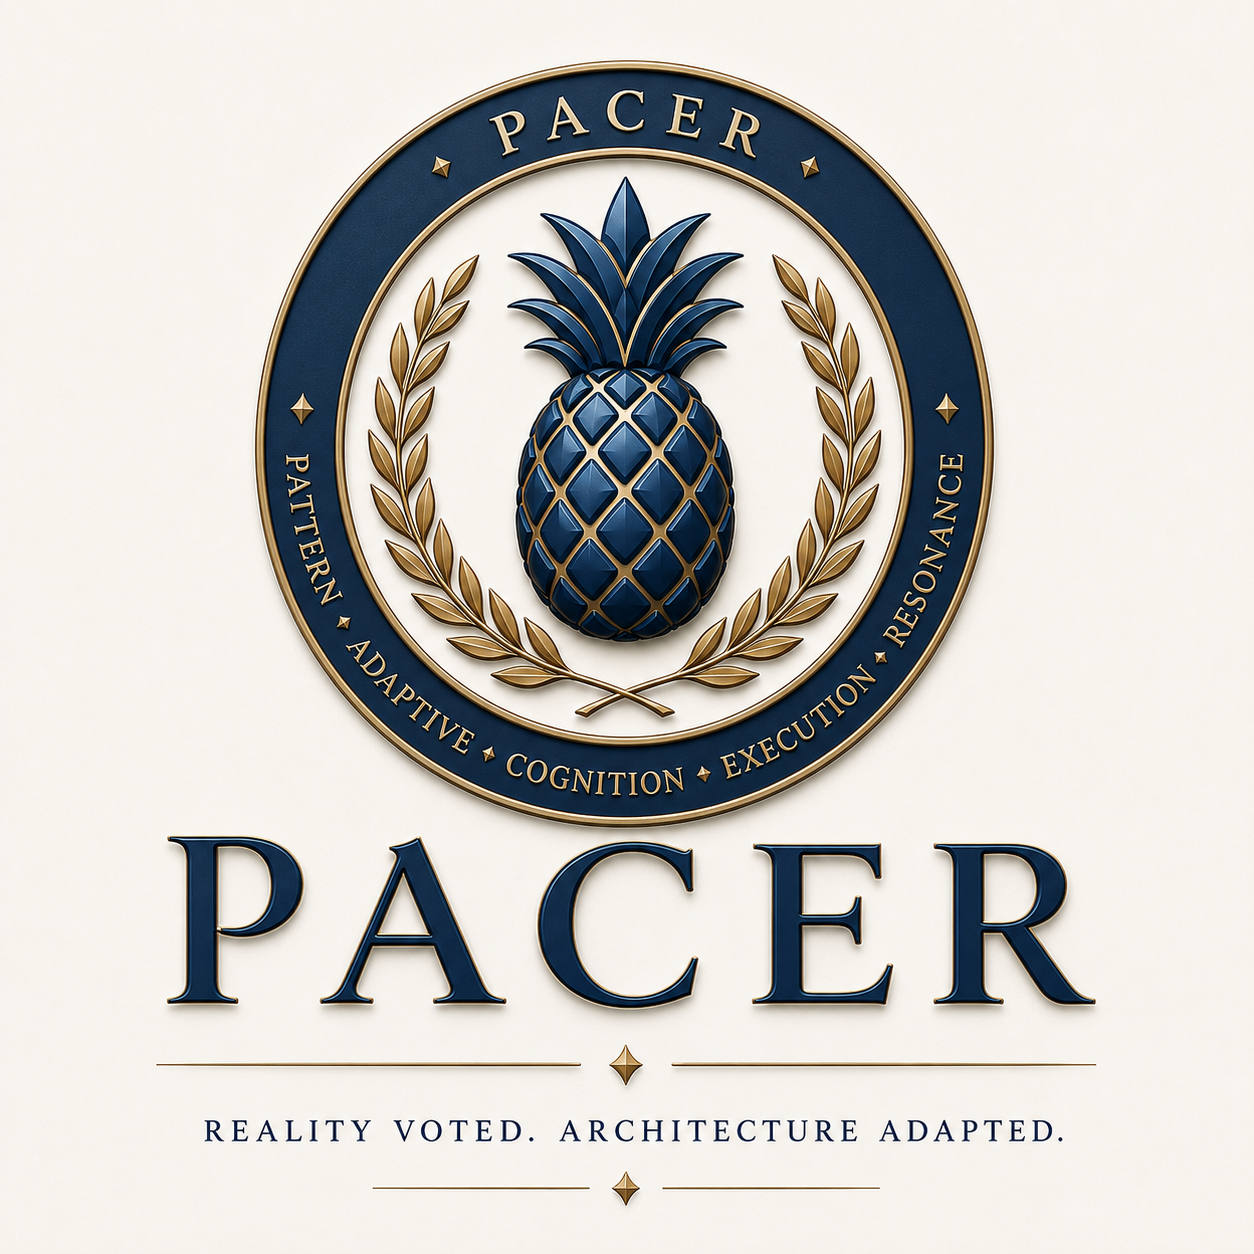
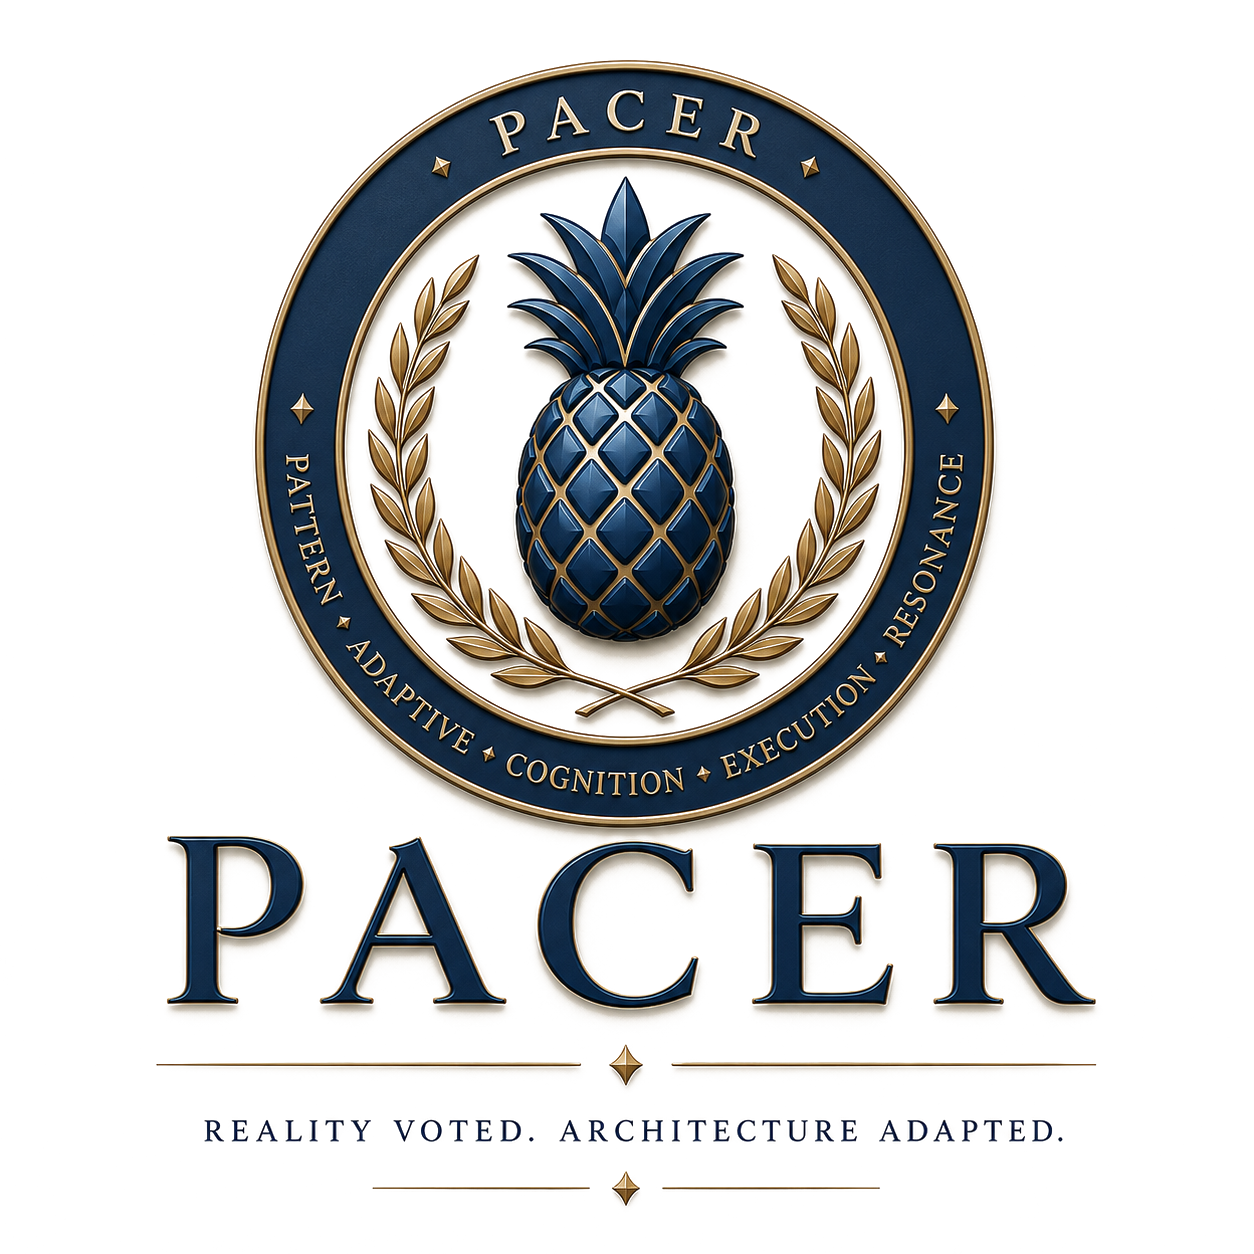
Transparent seal PNG + expanded constellation atmosphere
Seal: removed white background using PIL threshold fade — pixels above
brightness 240 fully transparent, 200-240 proportionally faded to
preserve anti-aliasing at the edges. The white box is gone.

Atmosphere: three additions to CampusAtmosphere:

1. Palm silhouette (🌴, 260px, 3.5% opacity, 12deg rotation) in the
   upper right corner — counterweight to the centered pineapple.

2. Maritime navigation arcs — three SVG quadratic bezier curves at 5%
   opacity. Horizontal arcs at top and bottom, a vertical arc on the
   left. Old chart lines, not startup gradients.

3. Four new constellation nodes and five new edges extending the memory
   network. The hub (node 6) now connects to 5 arms. Outer periphery
   has one more long connector across the top.

All layers remain fixed, pointer-events: none, overflow: hidden.
Environmental storytelling. The visitor sees the network before they
know what it means.

https://claude.ai/code/session_01E3zRES7L7b1sft1nD9jqmq

Changed region(s): [[0.4665, 0.311, 0.5287, 0.3421]]

diff --git a/src/components/PACERHome.jsx b/src/components/PACERHome.jsx
@@ -1,14 +1,19 @@
 // Blue Pineapple: doctrine, not decoration.
 const BLUE_PINEAPPLE_FILTER = 'hue-rotate(160deg) saturate(2) brightness(1.1)'
 
-// Constellation — memory pathways, not a map
+// Constellation — memory pathways, not a map.
+// Hub at index 6. Node index 9-12 are the newer additions.
 const NODES = [
-  [14, 15], [78, 10], [90, 44], [68, 82],
-  [20, 76], [7, 55], [50, 38], [42, 68], [62, 22],
+  [14, 15], [78, 10], [90, 44], [68, 82],   // 0-3
+  [20, 76], [7, 55],  [50, 38], [42, 68],   // 4-7
+  [62, 22], [35, 25], [82, 60], [28, 52],   // 8-11
+  [56, 90],                                  // 12
 ]
 const EDGES = [
-  [0, 6], [1, 8], [8, 6], [6, 2], [6, 7],
-  [3, 7], [4, 7], [5, 4], [5, 0],
+  [0, 6], [1, 8], [8, 6], [6, 2], [6, 7],  // original arms
+  [3, 7], [4, 7], [5, 4], [5, 0],           // original periphery
+  [9, 6], [10, 2], [11, 7], [12, 7],        // new branches
+  [10, 3], [9, 0],                           // long connectors
 ]
 
 // Fixed atmospheric layer — mounts with PACERHome, unmounts on navigation.
@@ -28,13 +33,31 @@ function CampusAtmosphere() {
         userSelect: 'none',
       }}>🍍</div>
 
-      {/* Constellation — faint memory network, only noticed after a moment */}
+      {/* Palm silhouette — upper right, counterweight to the centered pineapple */}
+      <div style={{
+        position: 'absolute',
+        top: '-30px', right: '-20px',
+        fontSize: '260px', lineHeight: 1,
+        opacity: 0.035,
+        transform: 'rotate(12deg)',
+        userSelect: 'none',
+      }}>🌴</div>
+
+      {/* Constellation + maritime arcs */}
       <svg
         viewBox="0 0 100 100"
         preserveAspectRatio="xMidYMid slice"
-        style={{ position: 'absolute', inset: 0, width: '100%', height: '100%', opacity: 0.08 }}
+        style={{ position: 'absolute', inset: 0, width: '100%', height: '100%' }}
       >
-        <g stroke="#6366f1" strokeWidth="0.12" fill="#6366f1">
+        {/* Navigation arcs — very faint, like old maritime charts */}
+        <g fill="none" stroke="#6366f1" strokeWidth="0.09" opacity="0.05">
+          <path d="M 0 22 Q 50 8 100 22" />
+          <path d="M 0 78 Q 50 92 100 78" />
+          <path d="M 20 0 Q 8 50 20 100" />
+        </g>
+
+        {/* Memory network */}
+        <g stroke="#6366f1" strokeWidth="0.12" fill="#6366f1" opacity="0.09">
           {EDGES.map(([a, b], i) => (
             <line
               key={i}
@@ -43,7 +66,7 @@ function CampusAtmosphere() {
             />
           ))}
           {NODES.map(([cx, cy], i) => (
-            <circle key={i} cx={cx} cy={cy} r={i === 6 ? 1.0 : 0.65} />
+            <circle key={i} cx={cx} cy={cy} r={i === 6 ? 1.0 : 0.6} />
           ))}
         </g>
       </svg>